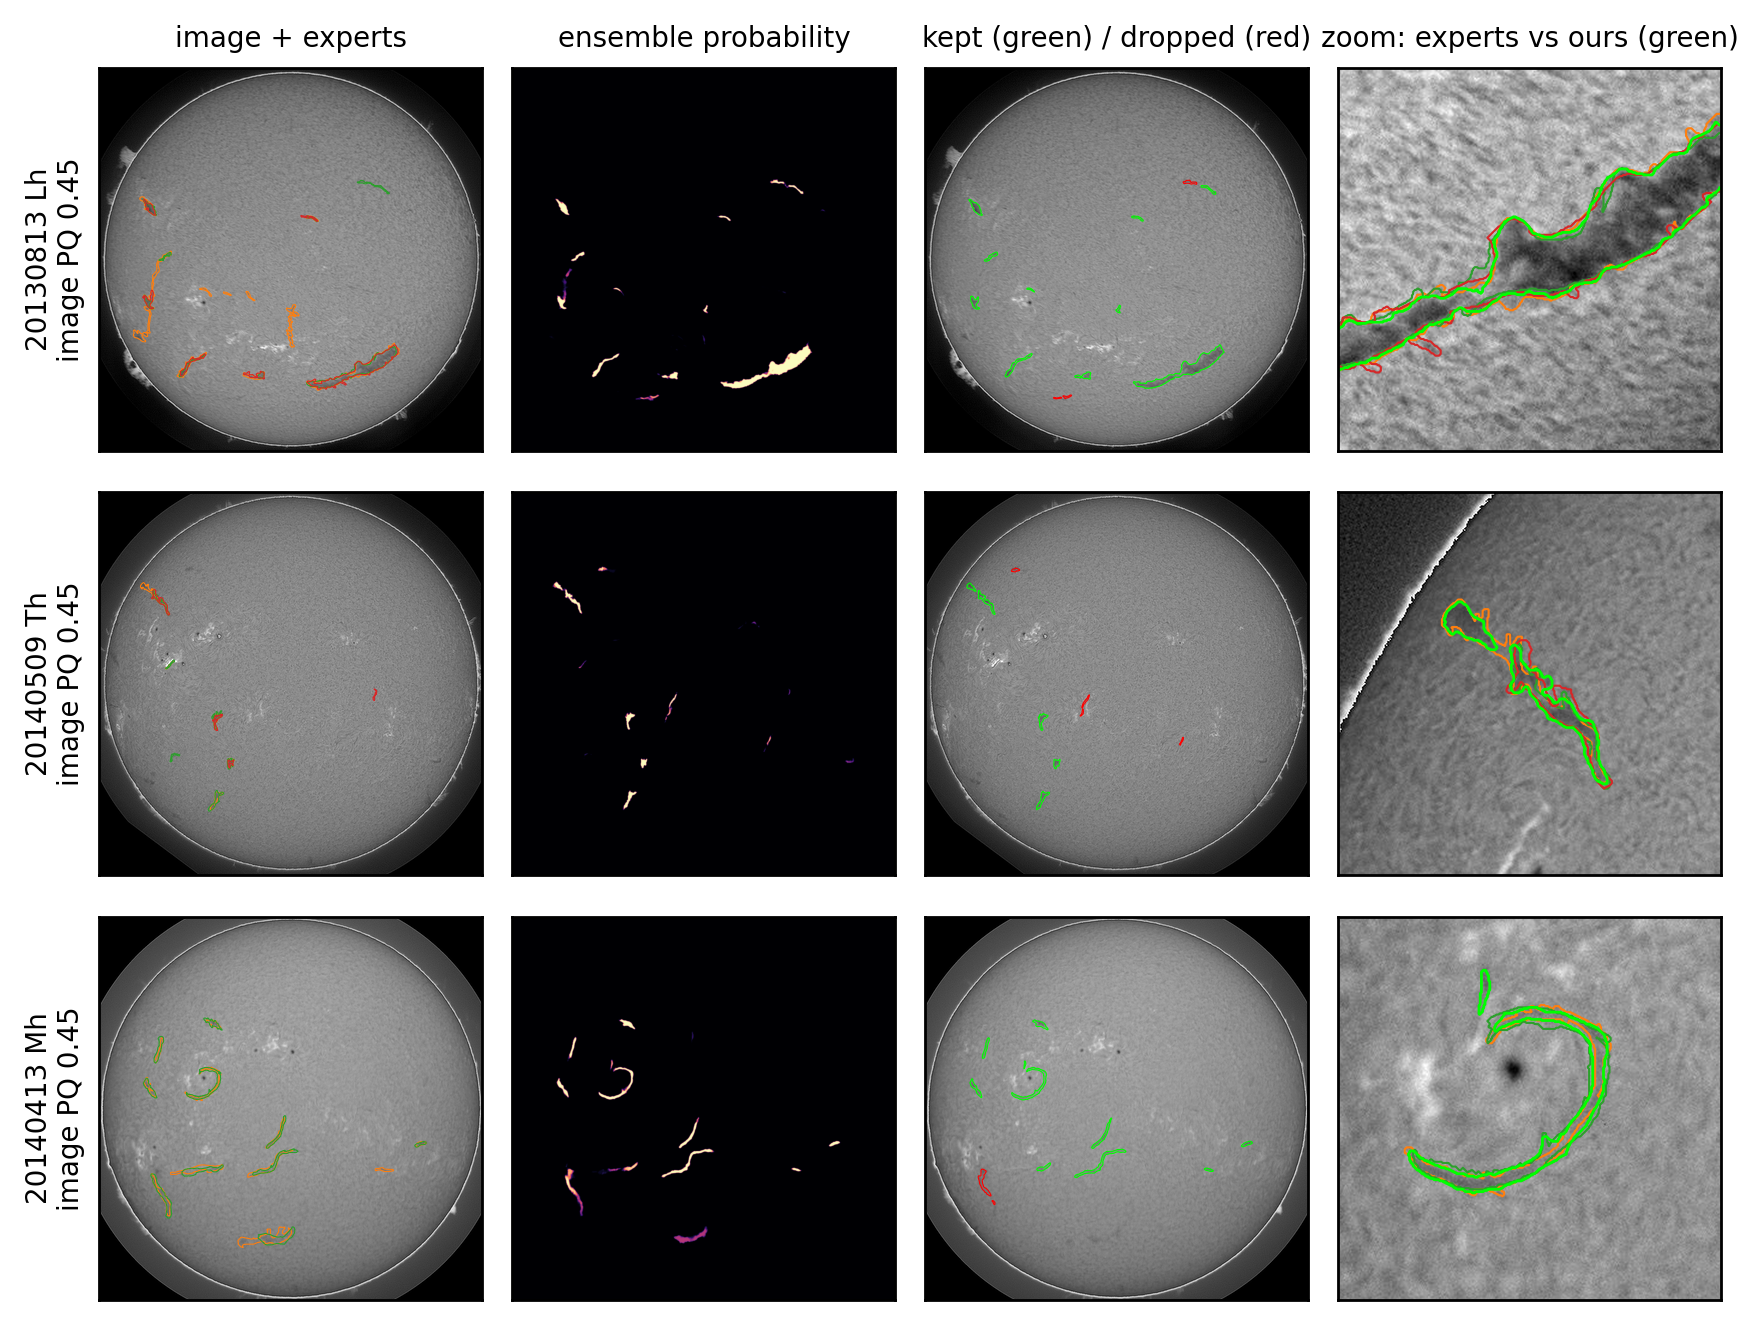
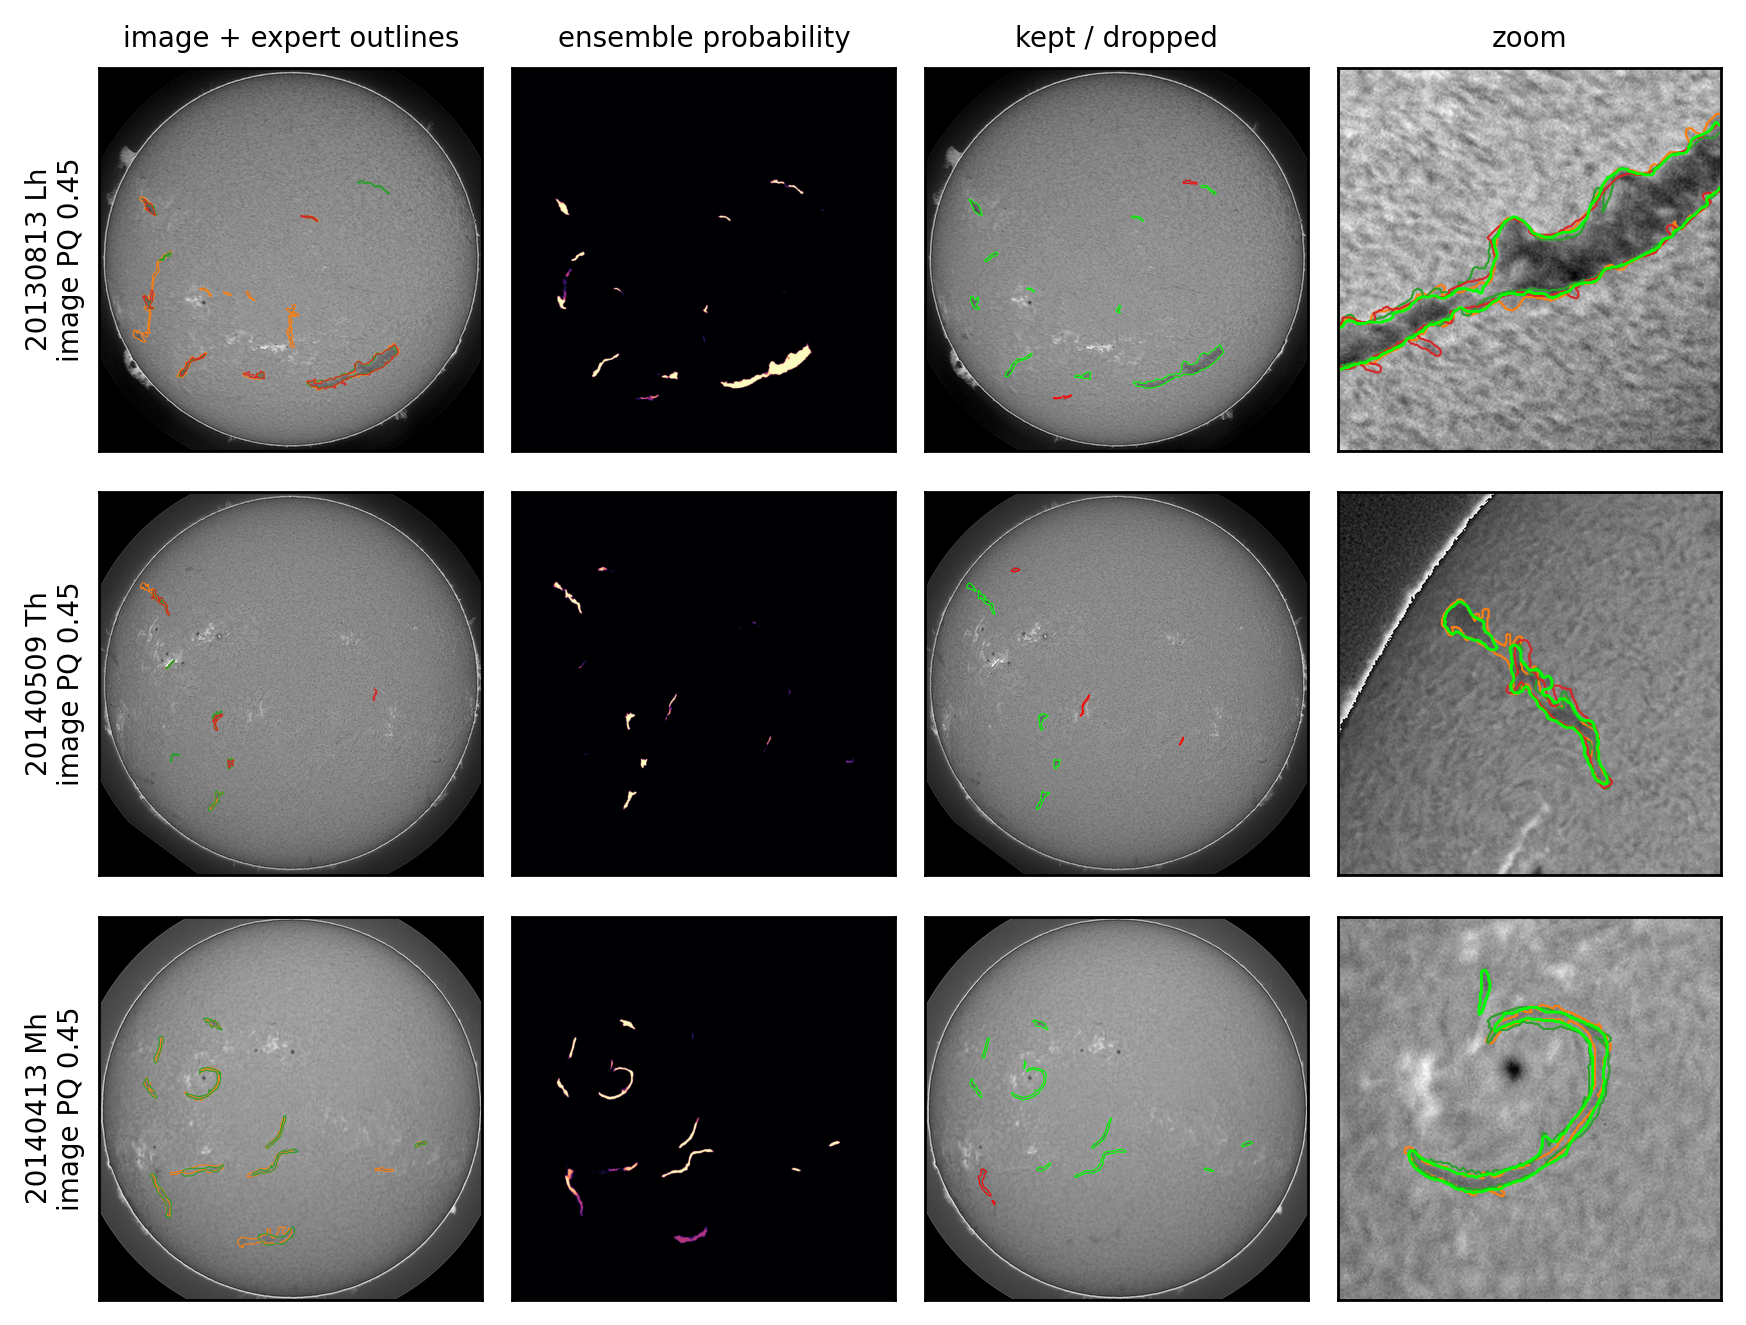
Build the report locally from the organizers' template files
- report/preamble.tex and main.bib from the template, main.bib extended with the five extra references
- report.tex renamed to main.tex as in the template; diagram scaled to the text width, Figures 2 and 3 share one float
- shorter column titles in the example figure; LaTeX build output and the template zip are ignored

diff --git a/report/main.tex b/report/main.tex
@@ -31,10 +31,10 @@
 \guideStylefalse
 
 \begin{document}
+\setlength{\emergencystretch}{1.5em}
 
 \title{Consensus-Trained U-Net Ensembles with a Learned PQ Keep Rule}
 \subtitle{A Solution to the Solar Filament Segmentation Challenge 2026} % DO NOT CHANGE
-
 
 \author{Kavya Dhyani}
 \email{kavyadhyani10@gmail.com}
@@ -45,13 +45,11 @@
 
 \maketitle
 
-
 % ==================================== %
 %              INTRODUCTION            %
 % ==================================== %
 \section{Introduction}
     This report goes over the details of our submitted solution to the Solar Filament Segmentation Challenge~2026 \cite{filament-segmentation-2026}. The challenge, launched on July~10,~2026, is organized by the Earth-Space AI Research (ESAIR) Lab\footnote{\href{https://www.esairlab.com/home}{www.esairlab.com/}}. This challenge utilizes the MAGFiLO dataset for evaluation of the segmentation algorithms \cite{ahmadzadeh2024dataset}. Submissions are scored with Panoptic Quality (PQ) \cite{kirillov2019panoptic}: a predicted filament matches an expert filament when their IoU exceeds 0.5, every expert record of an image is scored separately, and counts are pooled, $\mathrm{PQ}=\sum \mathrm{IoU}/(\mathrm{TP}+\tfrac12\mathrm{FP}+\tfrac12\mathrm{FN})$. Our design follows from an analysis of the training set (Sec.~\ref{sec:analysis}); all code, weights and a notebook reproducing the submission are public.\footnote{\url{https://github.com/KavyaDhyani/solar-filament-segmentation}}
-
 
 % ==================================== %
 %              METHODOLOGY             %
@@ -59,7 +57,7 @@
 \section{Methodology}\label{sec:methodology}
 
 \subsection{What the training data implies}\label{sec:analysis}
-The training set has 707 images ($2048^2$~px, six GONG sites) with 1,154 expert records (1--3 experts per image) and 8,199 filaments; the 180 test images were used for inference only. Using a re-implementation of the official metric that matches the organizers' notebook exactly, we measured:
+The training set has 707 images ($2048^2$~px, six GONG sites) with 1,154 expert records (1--3 experts per image) and 8,199 filaments; the 180 test images were used for inference only. With our implementation of the official metric, which matches the organizers' notebook exactly, we measured:
 \begin{itemize}
     \item \textbf{Experts disagree.} One expert scored against another reaches PQ 0.340 (SQ 0.634, RQ 0.536). Scored against a held-out third expert, the union of the other experts' matched filaments (0.348) beats a single expert (0.318) and their intersection (0.292): a prediction should follow the consensus with generous outlines.
     \item \textbf{Outlines dominate.} Filaments are thin (median width 11~px). Eroding or dilating the ground truth by one pixel lowers its PQ against itself to 0.78 / 0.82, and by two pixels to 0.38 / 0.67. Down-sampling to 1024~px and back costs about 2\%, to 512~px about 8\%.
@@ -73,6 +71,7 @@ Figure~\ref{fig:pipeline} summarises the pipeline.
 
 \begin{figure*}[t]
 \centering
+\resizebox{\textwidth}{!}{%
 \begin{tikzpicture}[node distance=0.32cm, every node/.style={font=\scriptsize, align=center},
   box/.style={draw, rounded corners=2pt, minimum height=0.95cm, inner sep=3pt, text width=2.05cm, fill=gray!8},
   arr/.style={-{Stealth[length=4pt]}, thick}]
@@ -86,7 +85,7 @@ Figure~\ref{fig:pipeline} summarises the pipeline.
 \node[box, right=of keep, text width=1.45cm] (sub) {RLE per\\filament};
 \draw[arr] (img) -- (pre); \draw[arr] (pre) -- (n1); \draw[arr] (pre) -- (n2);
 \draw[arr] (n1) -- (avg); \draw[arr] (n2) -- (avg); \draw[arr] (avg) -- (cand); \draw[arr] (cand) -- (keep); \draw[arr] (keep) -- (sub);
-\end{tikzpicture}
+\end{tikzpicture}}
 \caption{End-to-end pipeline. $\hat q$: predicted PQ contribution of a candidate filament (Sec.~\ref{sec:keep}).}
 \label{fig:pipeline}
 \end{figure*}
@@ -95,11 +94,11 @@ Figure~\ref{fig:pipeline} summarises the pipeline.
 
 \textbf{Target.} The training target is the soft consensus, the share of an image's experts whose masks cover a pixel, area-downsampled with the image.
 
-\textbf{Networks.} We use U-Net \cite{ronneberger2015unet} with an ImageNet-pretrained EfficientNetV2-S encoder \cite{tan2021efficientnetv2} from \texttt{segmentation\_models\_pytorch} \cite{iakubovskii2019smp}, one output channel, and the loss BCE + soft Dice. Training uses AdamW (learning rate $3\cdot10^{-4}$, weight decay $10^{-4}$), one warm-up epoch followed by a cosine decay, gradient clipping, mixed precision, and an exponential moving average of the weights (decay 0.995). Augmentation runs on the GPU: random dihedral transforms, small affine warps ($\pm15^\circ$, $\pm8\%$ scale), gain and bias, blur, noise and large-scale haze. Each step uses random $768^2$ crops at batch size 8. Run~1 works at 1024~px for 40 epochs; run~2 works at 1536~px for 60 epochs with another seed. Both use the same folds.
+\textbf{Networks.} We use U-Net \cite{ronneberger2015unet} with an ImageNet-pretrained Efficient\-NetV2-S encoder \cite{tan2021efficientnetv2} from the Segmentation Models PyTorch library \cite{iakubovskii2019smp}, one output channel, and the loss BCE + soft Dice. Training uses AdamW (learning rate $3\cdot10^{-4}$, weight decay $10^{-4}$), one warm-up epoch followed by a cosine decay, gradient clipping, mixed precision, and an exponential moving average of the weights (decay 0.995). Augmentation runs on the GPU: random dihedral transforms, small affine warps ($\pm15^\circ$, $\pm8\%$ scale), gain and bias, blur, noise and large-scale haze. Each step uses random $768^2$ crops at batch size 8. Run~1 works at 1024~px for 40 epochs; run~2 works at 1536~px for 60 epochs with another seed. Both use the same folds.
 
 \textbf{Inference.} Each image is predicted under the 8 dihedral views, which are undone and averaged. Test maps average the 5 fold models of each run; out-of-fold maps come from the model that did not see the image. The two runs' maps are upsampled to 2048~px and averaged with equal weights.
 
-\textbf{Candidates.} A candidate is a connected component (8-connectivity) of $p>0.5$ inside the disk that reaches $p>0.6$ somewhere, covers at least 50~px and has a mean $r/R<0.95$. Components within 8~px of each other are linked into one instance; for run~1 this raises out-of-fold PQ from 0.425 (no linking) to 0.432, while 16~px is worse (0.426).
+\textbf{Candidates.} A candidate is an 8-connected component of $p>0.5$ inside the disk that reaches $p>0.6$ somewhere, covers at least 50~px and has a mean $r/R<0.95$. Components within 8~px of each other are linked into one instance; for run~1 this raises out-of-fold PQ from 0.425 (no linking) to 0.432, while 16~px is worse (0.426).
 
 \subsection{Learned keep rule}\label{sec:keep}
 Every submitted instance adds $\tfrac12$ to the PQ denominator; when it matches an expert filament it also adds its IoU to the numerator and turns a miss into a match, which leaves the denominator unchanged. Adding a candidate therefore raises PQ only if its expected IoU-weighted hit rate, averaged over the image's expert records, $q=\frac1{K}\sum_k \mathrm{IoU}_k\,[\mathrm{IoU}_k>0.5]$, exceeds PQ/2. We compute $q$ for every out-of-fold candidate and train a LightGBM regressor \cite{ke2017lightgbm} to predict it from 17 features:
@@ -118,11 +117,14 @@ Images are linked into clusters when they lie within three days of each other (3
 
 \begin{figure*}[t]
 \centering
-\includegraphics[width=\textwidth]{figs/examples.png}
-\caption{Out-of-fold segmentations of the training images whose PQ is closest to the median (one per site, at least two experts; not hand-picked). Column 1: the image with each expert's outlines in its own colour. Column 2: ensemble probability. Column 3: candidates kept (green) and dropped (red) by the keep rule. Column 4: zoom on the largest kept filament.}
+\includegraphics[width=0.9\textwidth]{figs/examples.png}
+\caption{Out-of-fold segmentations of the training images whose PQ is closest to the median (one per site, at least two experts; not hand-picked). Column 1: the image with each expert's outlines in its own colour. Column 2: ensemble probability. Column 3: candidates kept (green) and dropped (red) by the keep rule. Column 4: zoom on the largest kept filament, experts' outlines and ours (green).}
 \label{fig:examples}
+\vspace{0.6em}
+\includegraphics[width=0.8\textwidth]{figs/analysis.pdf}
+\caption{Left: out-of-fold PQ against the keep threshold; the optimum coincides with PQ/2. Right: recall and IoU of matched filaments by expert filament area (quintiles).}
+\label{fig:analysis}
 \end{figure*}
-
 
 % ==================================== %
 %              EVALUATION              %
@@ -158,13 +160,6 @@ Ensemble, keep all & 0.398 {\scriptsize [0.389, 0.408]} & 0.674 / 0.591 & -- \\
     \item \textbf{Number of experts.} Images with one, two and three experts score 0.438, 0.454 and 0.429.
     \item \textbf{Leaderboard.} Out-of-fold gains carried over to the public leaderboard (0.37 $\rightarrow$ 0.39), but at a level about 0.05 lower, which suggests that the test images are harder or differently annotated.
 \end{itemize}
-
-\begin{figure}[t]
-\centering
-\includegraphics[width=\columnwidth]{figs/analysis.pdf}
-\caption{Left: out-of-fold PQ against the keep threshold; the optimum coincides with PQ/2. Right: recall and IoU of matched filaments by expert filament area (quintiles).}
-\label{fig:analysis}
-\end{figure}
 
 \textbf{Strengths.}
 \begin{itemize}

diff --git a/report/preamble.tex b/report/preamble.tex
@@ -1,0 +1,44 @@
+% =============================================================================
+% Template setup — participants normally do not edit this file.
+% Author content belongs in main.tex; citations belong in main.bib.
+% \documentclass lives in main.tex so Overleaf does not treat this file as root.
+% =============================================================================
+
+% --- Competition / non-ACM-submission friendly rights metadata -------------
+\setcopyright{none}
+\settopmatter{printacmref=false}
+\acmConference[Kaggle Competition]{Filament Segmentation Challenge}{2026}{\href{https://www.kaggle.com/competitions/filament-segmentation-2026}{kaggle.com/competitions/filament-segmentation-2026}}
+\acmBooktitle{Competition Report}
+\acmDOI{}
+\acmISBN{}
+
+% --- Author guidance text --------------------------------------------------
+% \guide{...} is gray italic while \guideStyletrue; omitted from the PDF if false.
+% Flip the switch in main.tex after \input{preamble}.
+%
+% Do not use \guide{...} for \email{...}.
+\usepackage{xcolor}
+\newif\ifguideStyle
+\guideStyletrue
+\newcommand{\guide}[1]{%
+  \ifguideStyle
+    {\color{gray!65}\itshape #1}%
+  \fi
+}
+
+% --- Math ------------------------------------------------------------------
+% Do NOT load amssymb (or amsfonts): acmart already loads newtxmath, which
+% defines the same symbols (e.g. \Bbbk) and causes a conflict on Overleaf.
+% amsmath is already provided by acmart; mathtools extends it.
+\usepackage{mathtools}
+
+% --- Figures ---------------------------------------------------------------
+% graphicx is already loaded by acmart
+\usepackage{subcaption}
+
+% --- Tables ----------------------------------------------------------------
+% booktabs is already loaded by acmart
+\usepackage{tabularx}
+\usepackage{multirow}
+
+% --- Bibliography style is set in main.tex (ACM-Reference-Format) ----------

diff --git a/dev/build_report_notebook.py b/dev/build_report_notebook.py
@@ -205,14 +205,14 @@ for row, i in enumerate(chosen):
     for k, m in enumerate(experts):
         ax.contour(np.arange(sl[1].start, sl[1].stop), np.arange(sl[0].start, sl[0].stop), m[sl], [0.5], colors=[f"C{k + 1}"], linewidths=0.3)
     ax.set_ylabel(f"{stem[:8]} {stem[-2:]}\nimage PQ {img_pq[i]:.2f}")
-    if row == 0: ax.set_title("image + experts")
+    if row == 0: ax.set_title("image + expert outlines")
     ax = axes[row, 1]; ax.imshow(prob[sl], cmap="magma", vmin=0, vmax=1, extent=ext); ax.set_xticks([]); ax.set_yticks([])
     if row == 0: ax.set_title("ensemble probability")
     ax = axes[row, 2]; show(ax, img[sl], ext)
     xs, ys = np.arange(sl[1].start, sl[1].stop), np.arange(sl[0].start, sl[0].stop)
     ax.contour(xs, ys, kept[sl].astype(float), [0.5], colors=["lime"], linewidths=0.3)
     ax.contour(xs, ys, dropped[sl], [0.5], colors=["red"], linewidths=0.3)
-    if row == 0: ax.set_title("kept (green) / dropped (red)")
+    if row == 0: ax.set_title("kept / dropped")
     # zoom on the largest kept instance
     areas_k = np.bincount(lab[kept], minlength=n + 1)
     j = int(np.argmax(areas_k))
@@ -224,7 +224,7 @@ for row, i in enumerate(chosen):
     for k, m in enumerate(experts):
         ax.contour(zx, zy, m[zs], [0.5], colors=[f"C{k + 1}"], linewidths=0.6)
     ax.contour(zx, zy, kept[zs].astype(float), [0.5], colors=["lime"], linewidths=0.8)
-    if row == 0: ax.set_title("zoom: experts vs ours (green)")
+    if row == 0: ax.set_title("zoom")
 fig.tight_layout(); fig.savefig(FIG / "examples.png", dpi=250)
 print(sorted(p.name for p in FIG.iterdir()))
 """)
